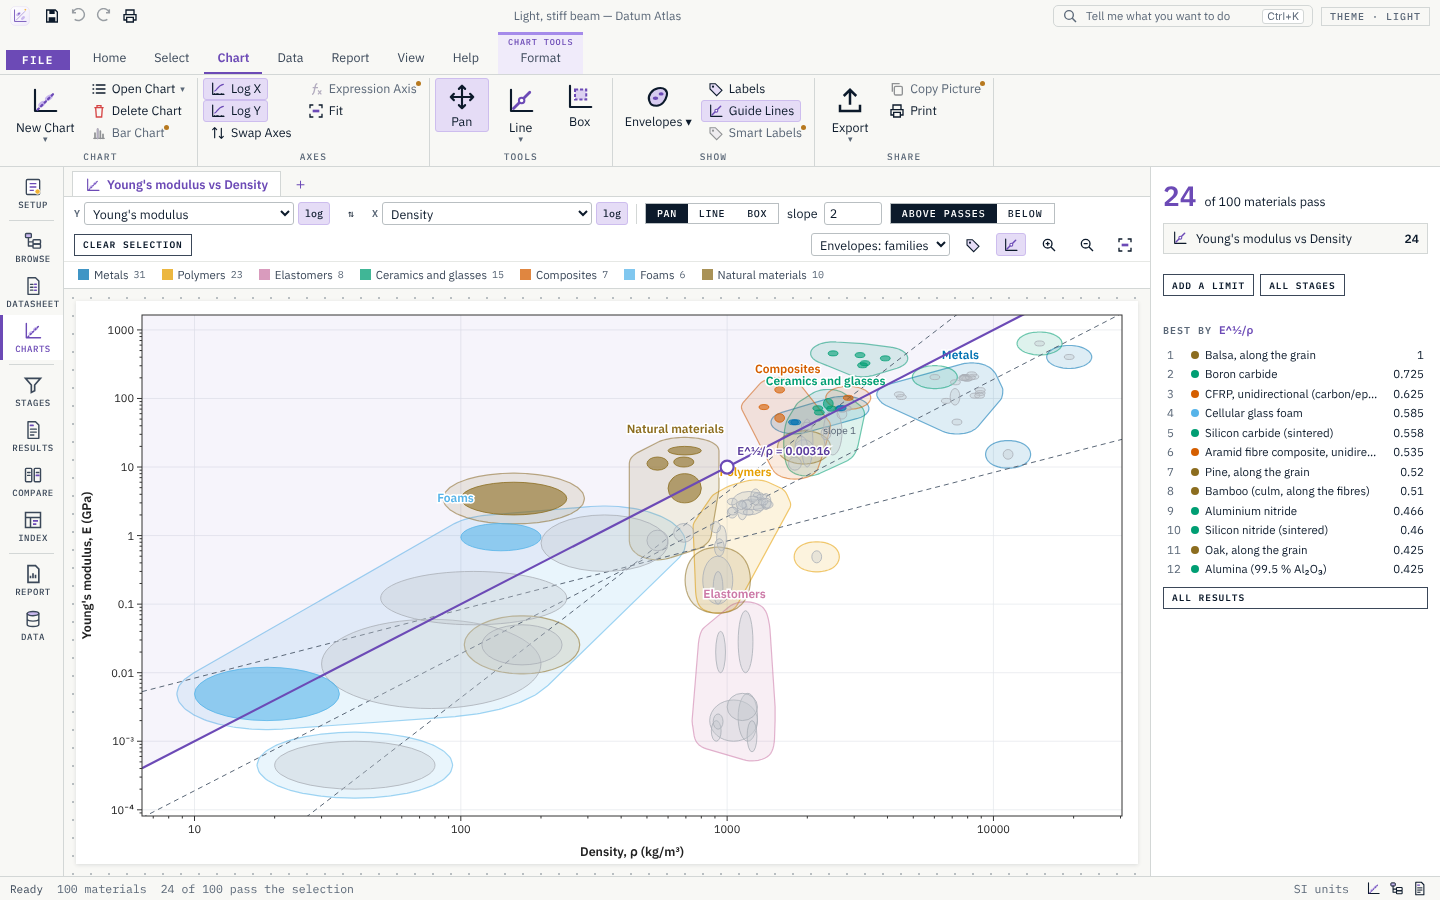
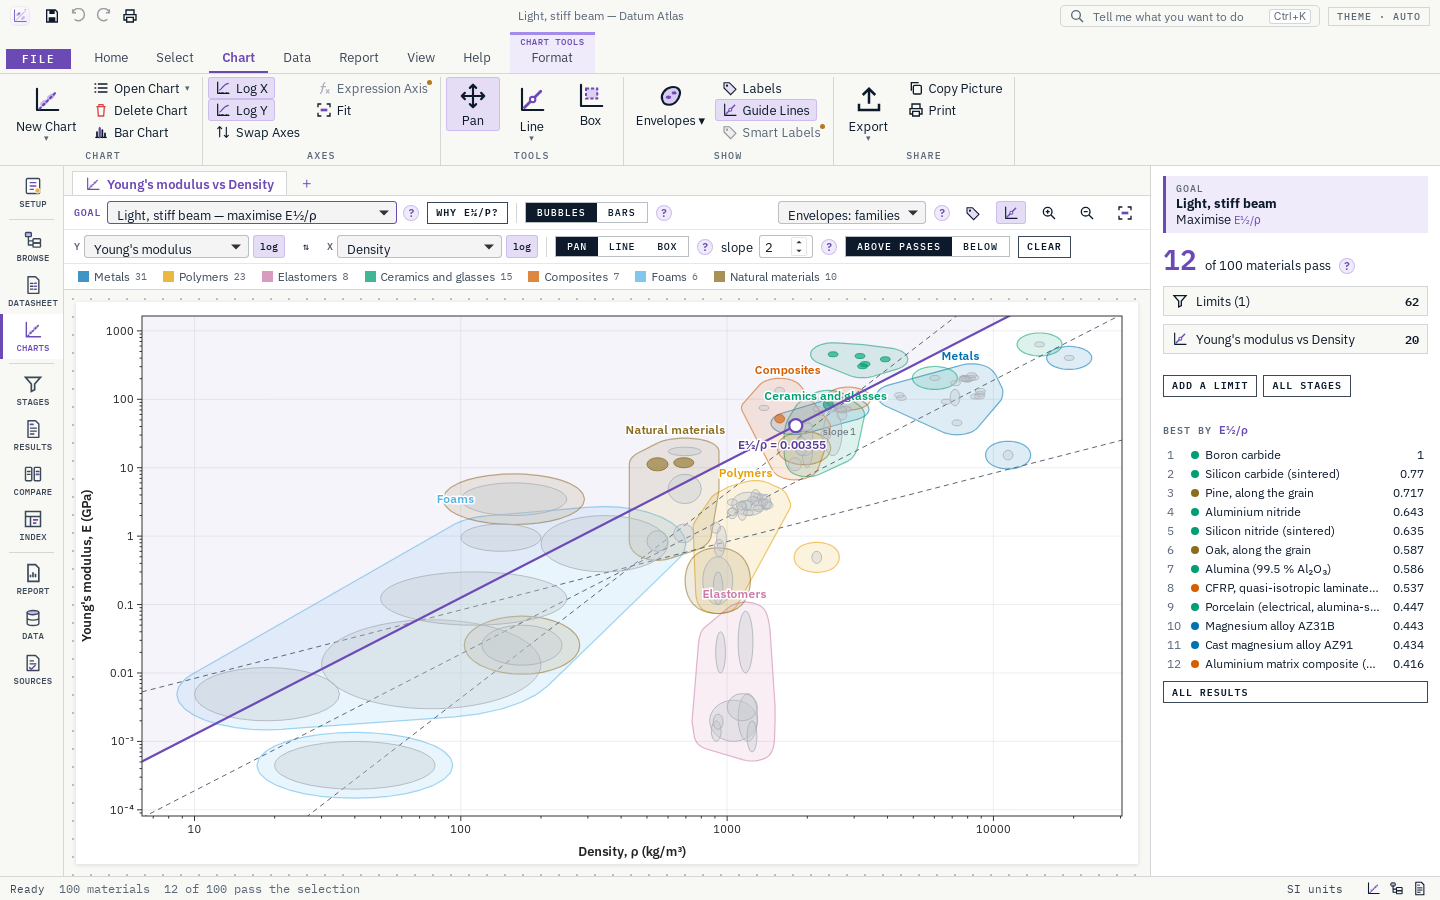
Datum Atlas 0.1.1: metals checked against datasheets, changelog, memory
- 51 values in 15 metals checked against published datasheets (16 new
  datasheet sources with links), marked ✓; ranges widened where a
  datasheet fell outside them.
- db::check refuses a checked value that is missing or cites only our
  compilation or an estimate; tests for it and for the ✓ in the window.
- CHANGELOG 0.1.1, README features and screenshots, PLAN-0.1.1 answers,
  MEMORY (architecture, decisions, roadmap, session 4), CLAUDE.md ? help rule.

Claude-Session: https://claude.ai/code/session_01H95y8kffvcHnyR7gjb6TFS

diff --git a/crates/core/src/db.rs b/crates/core/src/db.rs
@@ -125,10 +125,12 @@ pub fn search<'a>(mats: &'a [Material], q: &str) -> Vec<&'a Material> {
 }
 
 /// Everything wrong with a database: unknown properties, values without a known source, low > high,
-/// non-positive values on log properties, ratings not in the scale, duplicate ids or designations.
+/// non-positive values on log properties, ratings not in the scale, duplicate ids or designations,
+/// and values marked checked that have no value or cite only our own compilation or an estimate.
 pub fn check(db: &Database, extra_sources: &[Source]) -> Vec<String> {
     let mut errs = vec![];
     let srcs: HashSet<&str> = db.sources.iter().chain(extra_sources).map(|s| s.id.as_str()).collect();
+    let general: HashSet<&str> = db.sources.iter().filter(|s| matches!(s.kind.as_str(), "textbook-typical" | "estimate")).map(|s| s.id.as_str()).collect();
     let (mut ids, mut des) = (HashSet::new(), HashSet::new());
     for s in &db.sources {
         if s.title.trim().is_empty() { errs.push(format!("source {}: no title", s.id)); }
@@ -140,6 +142,13 @@ pub fn check(db: &Database, extra_sources: &[Source]) -> Vec<String> {
         if !FAMILIES.contains(&m.family.first().map(String::as_str).unwrap_or("")) { errs.push(at(format!("unknown family {:?}", m.family))); }
         for (sys, d) in &m.des {
             if !des.insert(format!("{sys} {d}")) { errs.push(at(format!("duplicate designation {sys} {d}"))); }
+        }
+        for k in &m.checked {
+            match m.props.get(k) {
+                None => errs.push(at(format!("{k}: marked checked but has no value"))),
+                Some(v) if general.contains(v.src()) => errs.push(at(format!("{k}: marked checked but cites {:?}, not a specific source", v.src()))),
+                _ => {}
+            }
         }
         for (k, v) in &m.props {
             let Some(p) = prop(k) else { errs.push(at(format!("unknown property {k}"))); continue };

diff --git a/crates/core/src/tests.rs b/crates/core/src/tests.rs
@@ -31,10 +31,21 @@ fn checks_catch_bad_values() {
     m.props.insert("ts".into(), Val::Range(1.0, 2.0, "nowhere".into()));
     m.props.insert("rho".into(), Val::Range(0.0, 2.0, "atlas-typ".into()));
     m.props.insert("bogus".into(), Val::Flag(true, "atlas-typ".into()));
+    m.checked = vec!["kic".into(), "price".into(), "cv".into()];
     d.materials.push(d.materials[1].clone());
     let errs = db::check(&d, &[]).join("\n");
-    for want in ["low 300 > high 200", "source \"nowhere\" not found", "must be above zero", "unknown property bogus", "duplicate id", "duplicate designation"] {
+    for want in ["low 300 > high 200", "kic: marked checked but cites \"atlas-typ\"", "price: marked checked but cites", "cv: marked checked but has no value", "source \"nowhere\" not found", "must be above zero", "unknown property bogus", "duplicate id", "duplicate designation"] {
         assert!(errs.contains(want), "missing {want:?} in\n{errs}");
+    }
+}
+
+#[test]
+fn checked_values_cite_datasheets() {
+    let d = db::builtin();
+    let n: usize = d.materials.iter().map(|m| m.checked.len()).sum();
+    assert!(n >= 50, "only {n} checked values");
+    for m in d.materials.iter().filter(|m| !m.checked.is_empty()) {
+        for k in &m.checked { assert!(d.sources.iter().any(|s| s.id == m.props[k].src() && s.kind == "datasheet" && s.url.starts_with("https://")), "{} {k}", m.id); }
     }
 }
 

diff --git a/README.md b/README.md
@@ -22,26 +22,33 @@
 
 </div>
 
-<img src="docs/images/chart.png" alt="Datum Atlas: Young's modulus against density with family envelopes and a selection line of slope 2" width="100%">
+<img src="docs/images/chart.png" alt="Datum Atlas: the design goal Light, stiff beam on Young's modulus against density, with its line E½/ρ and the materials ranked by it" width="100%">
 
 ## What it does
 
 Datum Atlas helps engineers, designers and students pick a material and show why it is the right one:
 
-1. **Write down the requirements**: what the part does, what it must meet, what to minimise.
+1. **Pick a design goal** (light stiff beam, cheap strong tie, spring, heat sink…) or write down the requirements: what the part does, what it must meet, what to minimise.
 2. **See every material on a property chart**: two properties on log axes; each material is a bubble spanning its ranges, each family has its envelope.
 3. **Select**: limits (max service temperature ≥ 150 °C, price ≤ 5 USD/kg, recyclable), a **selection line** for a performance index (E^½/ρ for a light, stiff beam is a line of slope 2), a box, or whole families left out.
 4. **Rank and check**: the materials that pass, ranked by the index, and the reason every other one fails.
 
-## Features (0.1.0)
+## Features (0.1.1)
 
 - **About 100 materials** from every family: metals, polymers, elastomers, ceramics and glasses, composites, foams and natural materials. **Every value has a reference**, compiled from public sources (U.S. government handbooks, NIST, USGS, the Wood Handbook, open datasets and typical textbook ranges). No proprietary database is used.
+- **22 design goals** in a list beside the chart, grouped as minimum mass, minimum cost, minimum carbon, elastic design, damage tolerance and thermal. A goal sets the axes, draws the selection line of the right slope through the best materials, adds the limits it needs (marked, so you can change them) and ranks the results by its index. “Why?” explains the function, constraint, objective and free variable behind it.
+- **Derived properties**: price, CO₂ and energy per volume, specific stiffness and strength, thermal diffusivity and thermal shock resistance, calculated from each material's own values.
+- **SI or imperial units** everywhere: axes, tables, datasheets and limits. Values are stored in SI, so switching loses nothing.
+- **Bar charts** of one property for every material, grouped by family.
+- **Sources page**: every source, what kind it is, its licence, and which materials and values cite it. Metals are being checked against published datasheets value by value (51 values in 15 metals so far, marked ✓).
+- **? help** beside the tools: a click says what the tool is for and how to use it.
+- **Tell Me** (Ctrl+K) finds commands, design goals and materials (by name, UNS or EN number).
 - **Your own materials**: the Add Material window explains what is needed (a name, the family, density, at least one more property, low and high values in the unit shown, and where the values come from). They appear in every view.
 - **Property charts** of any two properties, log or linear; family envelopes; hover for ranges, click for the datasheet; zoom, pan, guide lines of slope 1, 2 and 3.
 - **Selection**: limit, chart (line or box) and family stages; results ranked by the index with “× best”; failures explained.
 - **Browse** with a family tree and an Excel-like table (sort, select, copy to Excel), and **datasheets** with grouped properties and numbered references.
 - Design problems to start from: light stiff beam, strong tie, stiff panel, springs, hot and light, damage tolerant.
-- Print or save as PDF (charts, datasheets, results); export charts as SVG or PNG.
+- Print or save as PDF (charts, datasheets, results); export charts as SVG or PNG, or copy the chart as a picture.
 - Light, dark and auto themes; the in-app updater; recovery of unsaved work.
 
 <table><tr>
@@ -50,11 +57,13 @@ Datum Atlas helps engineers, designers and students pick a material and show why
 </tr><tr>
 <td><img src="docs/images/datasheet.png" alt="A datasheet with references"></td>
 <td><img src="docs/images/add-material.png" alt="Add a material of your own"></td>
+</tr><tr>
+<td colspan="2"><img src="docs/images/sources.png" alt="Sources: every source with the materials and values that cite it"></td>
 </tr></table>
 
 ## Coming next
 
-Units (SI and imperial), search everywhere and several charts per project (0.1.1); the index builder, expression axes and derived properties (0.2); compare, radar charts, the selection report and 250 materials (0.3); your own databases with Excel import (0.3.1); eco audit (0.4); process selection (0.5). See Help › Roadmap in the app, or [docs/MEMORY.md](docs/MEMORY.md).
+Several selection lines and charts, results to Excel and more values checked against datasheets (0.1.2); the index builder, expression axes and derived properties (0.2); compare, radar charts, the selection report and 250 materials (0.3); your own databases with Excel import (0.3.1); eco audit (0.4); process selection (0.5). See Help › Roadmap in the app, or [docs/MEMORY.md](docs/MEMORY.md).
 
 ## Install
 
@@ -75,7 +84,7 @@ The engine (`crates/core`) holds the materials data, units, chart geometry and s
 
 ## Data
 
-Values are in `data/*.json`, one file per family, with their sources in `data/sources.json`. Each value is `[low, high, source]`. Built-in values are marked “draft” until each one is checked against the exact table or page of its source; corrections with a reference are welcome as issues or pull requests.
+Values are in `data/*.json`, one file per family, with their sources in `data/sources.json`. Each value is `[low, high, source]`. Built-in values are “draft” until each one is checked against a published source; checked values list the property in the material's `checked` list and cite that datasheet, and the tests refuse a checked value that cites only our own compilation; corrections with a reference are welcome as issues or pull requests.
 
 ## Licence
 

diff --git a/CHANGELOG.md b/CHANGELOG.md
@@ -1,5 +1,35 @@
 # Changelog
 
+## 0.1.1 — 2026-10-25
+
+Design goals that set up the chart, the line and the limits in one pick; SI or imperial units; bar charts; a Sources page; ? help beside the tools; and the first values checked against published datasheets.
+
+**Design goals**
+- A Goal list above the chart with 22 goals, grouped: minimum mass (stiff or strong tie, beam and panel; column; stiff shaft), minimum cost and minimum carbon (tie, beam, panel), elastic design (spring, elastic hinge), damage tolerance (yield before fracture, leak before break, tough and light), and thermal (precision parts, insulation, heat sinks, thermal shock).
+- A goal sets the axes, draws the selection line of the right slope through the best materials (the top fifth pass), adds the limits it needs, and ranks the results by its index. Its limits are marked “from the goal” in Stages; change or remove them freely. Your own limits are never touched. “Explore” removes the goal's line and limits.
+- “Why E½/ρ?” explains each goal: the function, the constraint, the objective, the free variable, and how the index follows.
+- Setup lists the goals too, and Tell Me (Ctrl+K) finds them.
+
+**Values and units**
+- Derived properties, calculated from each material's own values: price, CO₂ and energy per volume, specific stiffness and strength, thermal diffusivity and thermal shock resistance. They work as chart axes and in limits.
+- SI or imperial units everywhere: chart axes, tables, datasheets and limits (Options, or the status bar). Values are stored in SI, so switching loses nothing.
+- Index names are written as they are printed: E½/ρ, E⅓/ρ, σy⅔/ρ.
+
+**Charts**
+- Bar charts: one property for every material, a bar from its low to its high value, grouped by family and sorted.
+- Copy the chart as a picture, ready to paste into a report.
+- Family labels move apart when they would overlap; the index value sits where the line is clear.
+- The chart toolbar is in two rows so it fits on smaller screens.
+
+**Data and sources**
+- Home: Material Library, Add a material, Sources and Roadmap tiles.
+- A Sources page: every source, its kind and licence, and a click shows which materials and values cite it. Open and public sources only.
+- 51 values in 15 metals are now checked against published datasheets from producers and suppliers (aluminium 2024, 5083, 6061, 7075 and A356; steels 1045 and 4340; 17-4PH; ductile iron; copper, brass and copper-nickel; titanium grades 2 and 5; nickel alloy 718). Each checked value cites its datasheet, with a link, and shows ✓ on the datasheet. Where a datasheet was outside our range the range was widened (4340 elongation, A356 strength and elongation, brass density and conductivity, copper-nickel yield strength, 5083 conductivity, 17-4PH tensile strength). The other values remain drafts.
+
+**Help**
+- A small ? beside the tools (goal, chart tools, slope, envelopes, bars, stages, limits, results, browse, datasheet, sources, units and more): a click says what the tool is for and how to use it. Help › What Is This Tool? lists them all.
+- Tell Me also finds materials by name, UNS or EN number and opens their datasheet.
+
 ## 0.1.0 — 2026-10-25
 
 The first Datum Atlas: about 100 referenced materials, property charts with family envelopes, and selection with limits and index lines.

diff --git a/docs/PLAN-0.1.1.md b/docs/PLAN-0.1.1.md
@@ -1,6 +1,6 @@
 # Datum Atlas 0.1.1: plan and menu
 
-Status: **waiting for the user's choices** (§6). Written after the user's review of 0.1.0 (3 screenshots, 2026-10-25). Nothing is built until the user picks.
+Status: **answered and built** (§7); released as 0.1.1 on 2026-10-25. Written after the user's review of 0.1.0 (3 screenshots, 2026-10-25).
 
 This file follows the family pattern: feedback → diagnosis → proposal → menu of what can come next → size → questions.
 
@@ -156,3 +156,12 @@ Pick, move or combine freely. IDs match Help › Roadmap. "New" means not in the
 4. **Picking a goal on an open selection:** change the open chart (proposed) or add a new chart for it?
 5. **Data checking (A12):** start now, one family per release (metals first), or keep it for 0.3?
 6. **Students:** is the teaching mode (G4, worked examples) worth bringing forward to 0.2?
+
+## 7. Answers (2026-10-25) and what was built
+
+1. **Contents:** build §3 as proposed. Built: the goal list with derived per-volume axes, Home tiles and the Sources page, SI/imperial, search in Tell Me, bar charts, Copy Picture, label fixes.
+2. **Goals:** your 16 plus the 6 extras. The screenshot showed 14 goals, so 8 were added to reach **22**: column, stiff shaft, cheap stiff panel, low-carbon strong tie, tough and light tie, insulation, heat sink and thermal shock.
+3. **Limits:** yes, a goal sets the line **and** suggests limits. They are marked `goal: true` (“from the goal” in Stages); a new goal or Explore replaces them and never touches your limits.
+4. **Open selection:** as proposed, the goal changes the open chart.
+5. **Data checking:** started now, metals first. 51 values in 15 metals are checked against published datasheets (producers and suppliers), each citing its datasheet with a link and shown with ✓. Ranges were widened where a datasheet was outside them. The check used datasheet values as quoted by web search, because the build machine cannot open web pages; another pass that opens each document is planned.
+6. **Teaching mode:** not needed. Instead, a small **?** beside the tools opens a card saying what the tool is for and how to use it. This should be done in all Datum apps.

diff --git a/CLAUDE.md b/CLAUDE.md
@@ -15,6 +15,7 @@ User preferences:
 - The family look with the **Violet** accent (FAMILY §3): MS Office ribbon, Cairn-style sidebar, IBM Plex, square controls, light/dark/auto themes.
 - Keep code compact and match the surrounding style. Engine logic (units, ranges, geometry, hulls, selection, indices) belongs in `crates/core` (pure Rust, unit-tested), not in the UI. The window only maps engine geometry to the screen.
 - The UI is SolidJS + Vite in `ui/src/*.tsx` (built to `ui/dist`). State lives in `ui/src/store.ts`.
+- Every tool gets a small **?** beside it that opens a card saying what it is for and how to use it (`ui/src/help.tsx`, one `HELP` table). No separate teaching mode. The user wants this in all Datum apps.
 - **Data:** every value is compiled by us from public sources, with a reference in `data/sources.json`. Never copy Granta/CES, MatWeb or any other proprietary database. Missing values are gaps, never zero.
 - In user-facing text (README, app), Atlas stands on its own: never name other products or use their trademarks, data or wording.
 - Big asks get a `docs/PLAN-x.y.md` with questions first; build after the answers. Report in plain language: what changed, what was checked, what is not done.
